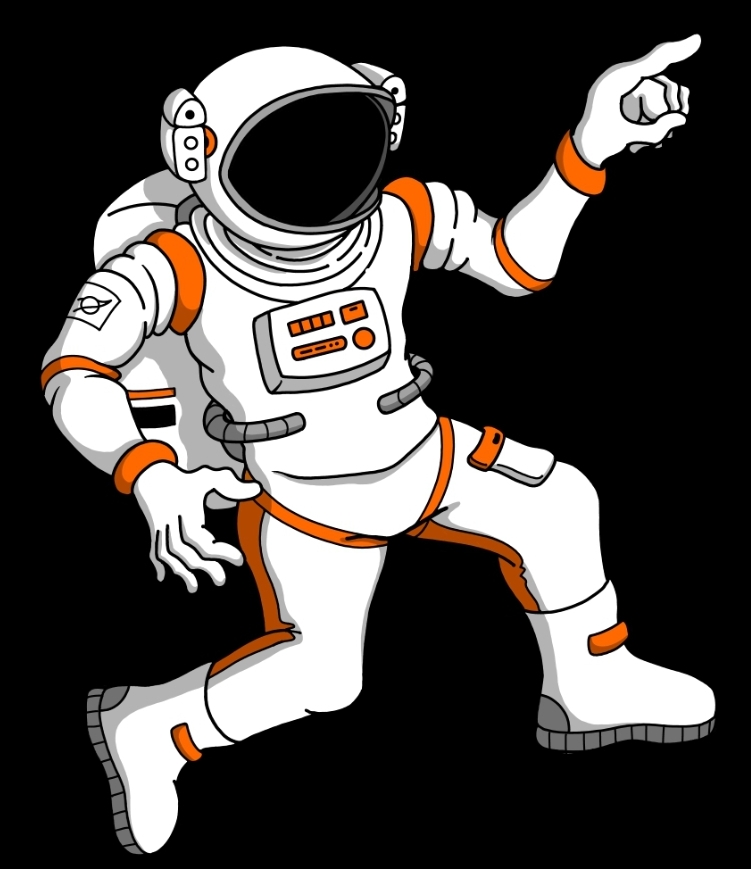
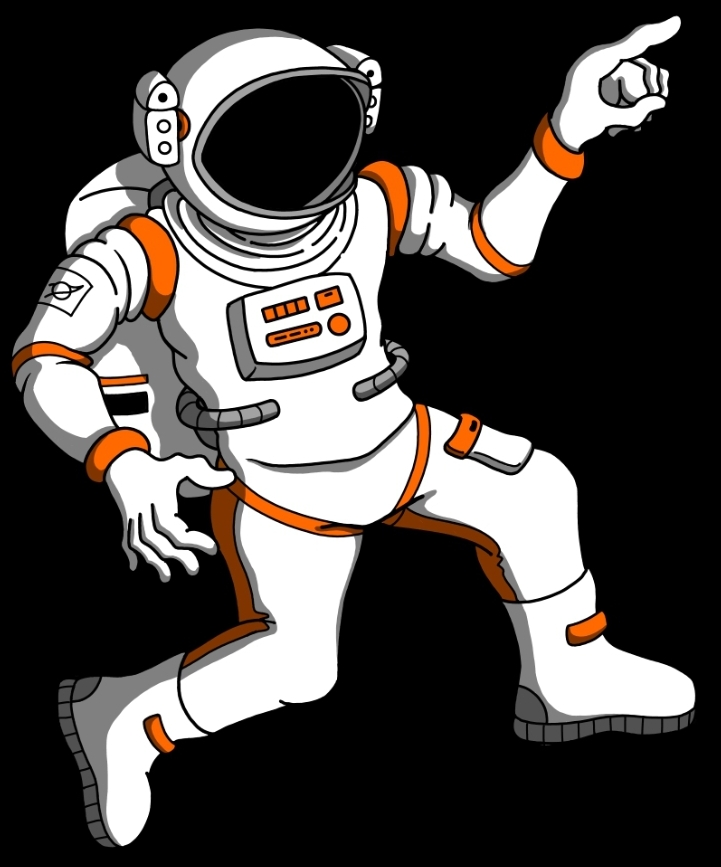
Replacing images with better ones

Changed region(s): [[0.0, 0.0, 0.9764, 0.9965]]

diff --git a/client/components/ProjectCard.tsx b/client/components/ProjectCard.tsx
@@ -46,25 +46,25 @@ export default function ProjectCard({ project }: ProjectCardProps) {
       <p className="text-sm text-gray-400 mb-4">
         {project.startDate} - {project.endDate}
       </p>
-      <p className="text-gray-300 mb-4">{project.description}</p>
+      <p className="text-gray-300 mb-6">{project.description}</p>
       <div className="flex flex-wrap gap-3 mt-4">
         {projectSkills.map((skill) => skill && (
-          <div key={skill.name} className="flex items-center gap-2 bg-[#1a1d28] px-3 py-2 rounded-lg group hover:bg-[#4ECDC4]/10 transition-colors">
-            <a href={skill.link} target="_blank" rel="noopener noreferrer" className="flex items-center gap-2">
+          <div key={skill.name} className="relative bg-[#1a1d28] px-1 py-1 hr-1 rounded-lg group hover:bg-[#4682B4]/20 transition-colors">
+            <a href={skill.link} target="_blank" rel="noopener noreferrer">
               <img
                 src={skill.icon}
                 alt={skill.name}
-                className="w-6 h-6 object-contain"
+                className="w-8 h-8 object-contain"
                 loading="lazy"
                 onError={(e) => {
                   e.currentTarget.src =
                     "https://cdn.jsdelivr.net/gh/devicons/devicon/icons/devicon/devicon-original.svg";
                 }}
               />
-              <span className="text-sm text-gray-300 group-hover:text-[#4ECDC4] transition-colors">
-                {skill.name}
-              </span>
             </a>
+            <span className="absolute top-full left-1/2 transform -translate-x-1/2 mt-1 text-xs text-gray-300 opacity-0 group-hover:opacity-100 group-hover:text-white transition-all duration-200 whitespace-nowrap bg-[#1a1d28] px-2 py-1 rounded">
+              {skill.name}
+            </span>
           </div>
         ))}
       </div>

diff --git a/client/pages/About.tsx b/client/pages/About.tsx
@@ -7,6 +7,9 @@ export function About() {
       <h2 className="text-4xl md:text-5xl font-bold mb-8">
         About Me
       </h2>
+      {/* <h2 className="text-4xl md:text-5xl font-bold mb-8">
+        Sobre Mí
+      </h2> */}
       <div className="absolute inset-0 opacity-70">
         <div className="stars"></div>
         <div className="stars2"></div>
@@ -27,6 +30,16 @@ export function About() {
             <p>
               My hobbies outside of tech include drawing comics, animating, playing the guitar and lifting weights at home.
             </p>
+
+            {/* <p className="mb-4">
+              Soy Israel Trejo, actualmente estudiante de último año de Ciencias de la Computación en la Universidad de 
+              Houston con una pasión por la <span className="font-bold">Ciencia de Datos</span> y la <span className="font-bold">
+              Ingeniería de Software</span>. Yo realmente disfruto trabajar en proyectos que tengan un gran impacto en el mundo. 
+              ¡Soy un jugador de equipo que disfruta trabajar y crecer con otros!
+            </p>
+            <p>
+              Mis pasatiempos fuera de la tecnología incluyen dibujar cómics, animar, tocar la guitarra y levantar pesas en casa.
+            </p> */}
           </div>
           <div className="group relative">
             <img className="absolute bottom-[-70px] right-4 w-[400px]
@@ -34,6 +47,7 @@ export function About() {
               src="/images/pulsar_map.png"/>
             <div className="absolute border border-gray-500 bg-black bottom-[50px] right-[430px] w-[260px] text-sm py-4 px-5">
               <p><span className="font-bold">Pulsar Map: </span>This diagram appears on the covers of the Voyager spacecrafts. Used to locate Earth in the galaxy, using 14 pulsars</p>
+              {/* <p><span className="font-bold">Mapa de Pulsar: </span>Este diagrama aparece en las portadas de las naves espaciales Voyager. Se utiliza para localizar la Tierra en la galaxia, utilizando 14 púlsares</p> */}
             </div>
           </div>
         </div>

diff --git a/client/pages/Experience.tsx b/client/pages/Experience.tsx
@@ -7,13 +7,11 @@ export function Experience() {
       <h2 className="text-4xl md:text-5xl font-bold mb-8">
         My Experience
       </h2>
+      {/* <h2 className="text-4xl md:text-5xl font-bold mb-8">
+        Mi Experiencia
+      </h2> */}
 
       <div className="flex">
-        {/* <div className="items-center flex flex-col justify-center">
-          <div className="items-center flex flex-col justify-center cursor-pointer border border-gray-500 hover:scale-105 h-80 group transition-all duration-500">
-            <ArrowLeft className="left-8 text-gray-500 hover:text-white cursor-pointer group-hover:text-white transition-all duration-500" size={40} />
-          </div>
-        </div> */}
         <div className="container mx-auto px-6 relative z-10">
           <div className="grid grid-cols-1 md:grid-cols-2 lg:grid-cols-3 gap-6 max-w-7xl mx-auto">
             {experiences.map((experience) => (
@@ -21,11 +19,6 @@ export function Experience() {
             ))}
           </div>
         </div>
-        {/* <div className="items-center flex flex-col justify-center">
-          <div className="items-center flex flex-col justify-center cursor-pointer border border-gray-500 hover:scale-105 h-80 group transition-all duration-500">
-            <ArrowRight className="right-8 text-gray-500 hover:text-white cursor-pointer group-hover:text-white transition-all duration-500" size={40} />
-          </div>
-        </div> */}
       </div>
     </section>
   )

diff --git a/client/pages/Projects.tsx b/client/pages/Projects.tsx
@@ -1,19 +1,6 @@
 import ProjectCard from "../components/ProjectCard";
 import { projects } from "../../server/data/projects";
 
-import ProjectFolder from "../components/ProjectFolder";
-
-// export function Projects() {
-//   return (
-//     <section id="projects" className="min-h-screen bg-black w-full flex flex-col items-center justify-center px-6 md:px-12 lg:px-20 text-white py-20">
-//       <h2 className="text-4xl md:text-5xl font-bold mb-12">
-//         My Projects
-//       </h2>
-//       <ProjectFolder projects={projects} />
-//     </section>
-//   )
-// }
-
 export function Projects() {
   return (
     <section id="projects" className="min-h-screen bg-black w-full flex flex-col items-center justify-start px-6 md:px-12 lg:px-20 text-white pt-32">

diff --git a/client/Hero.tsx b/client/Hero.tsx
@@ -64,6 +64,9 @@ export function Hero() {
           <p className="text-xl uppercase tracking-widest text-gray-300 mb-2">
             Tech Enthusiast • Developer • Designer
           </p> 
+          {/* <p className="text-xl uppercase tracking-widest text-gray-300 mb-4">
+            Ingeniero • Desarrollador • Diseñador
+          </p> */}
 
           <h1 className="text-6xl md:text-7xl lg:text-8xl font-bold mb-1 leading-tight pb-4"> 
             <span className="text-white">Israel Trejo</span>
@@ -72,6 +75,9 @@ export function Hero() {
           <p className="text-xl md:text-2xl uppercase tracking-wide text-gray-300 mb-8 font-normal"> 
             Exploring the vast universe of tech
           </p>
+          {/* <p className="text-xl uppercase tracking-widest text-gray-300 mb-4">
+            Explorando el vasto universo de la technología
+          </p> */}
 
           <div className="flex flex-col sm:flex-row gap-4 mb-8">
             <a href="/resume/Israel_Trejo_Resume.pdf" download="Israel_Trejo_Resume.pdf">
@@ -79,11 +85,17 @@ export function Hero() {
                       >
                 Download CV
               </button>
+              {/* <button className="px-8 py-4 text-base font-medium rounded-full border-2 border-white bg-transparent text-white hover:bg-white hover:text-black transition-all duration-300 hover:shadow-[0_10px_25px_rgba(255,255,255,0.2)]">
+                Descargar CV
+              </button> */}
             </a>
             <a href="#contact">
               <button className="px-8 py-4 text-base font-medium rounded-full border-2 border-white bg-white text-black hover:bg-transparent hover:text-white transition-all duration-300 hover:shadow-[0_10px_25px_rgba(255,255,255,0.2)]">
                 Contact Info
               </button>
+              {/* <button className="px-8 py-4 text-base font-medium rounded-full border-2 border-white bg-white text-black hover:bg-transparent hover:text-white transition-all duration-300 hover:shadow-[0_10px_25px_rgba(255,255,255,0.2)]">
+                Información de contacto
+              </button> */}
             </a>
           </div>
 

diff --git a/client/pages/Contact.tsx b/client/pages/Contact.tsx
@@ -17,6 +17,7 @@ export function Contact() {
       </div>
 
       <h2 className="text-4xl md:text-5xl font-bold mb-8 text-white text-center relative z-10">Contact Me</h2>
+      {/* <h2 className="text-4xl md:text-5xl font-bold mb-8 text-white text-center relative z-10">Contáctame</h2> */}
       <div className="flex justify-center gap-10 p-10 border border-2 border-gray-700 rounded-lg px-14 bg-black relative z-10">
         <div className="flex items-center gap-4">
           <a
@@ -53,6 +54,7 @@ export function Contact() {
             <Mail size={32} />
           </a>
           <p className="text-white text-xl">Email</p>
+          {/* <p className="text-white text-xl">Correo</p> */}
         </div>
       </div>
       <div className="absolute w-full bottom-0">

diff --git a/index.html b/index.html
@@ -3,7 +3,7 @@
   <head>
     <meta charset="UTF-8" />
     <meta name="description" content="Israel Trejo - Portfolio"/>
-    <link rel="icon" type="image/jpeg" href="/images/galaxy_icon.png" className="border rounded-full"/>
+    <link rel="icon" type="image/jpeg" href="/images/galaxy_icon.jpg" className="border rounded-full"/>
     <meta name="viewport" content="width=device-width, initial-scale=1.0" />
     <title>Israel Trejo - Portfolio</title>
     <link rel="preconnect" href="https://fonts.googleapis.com">